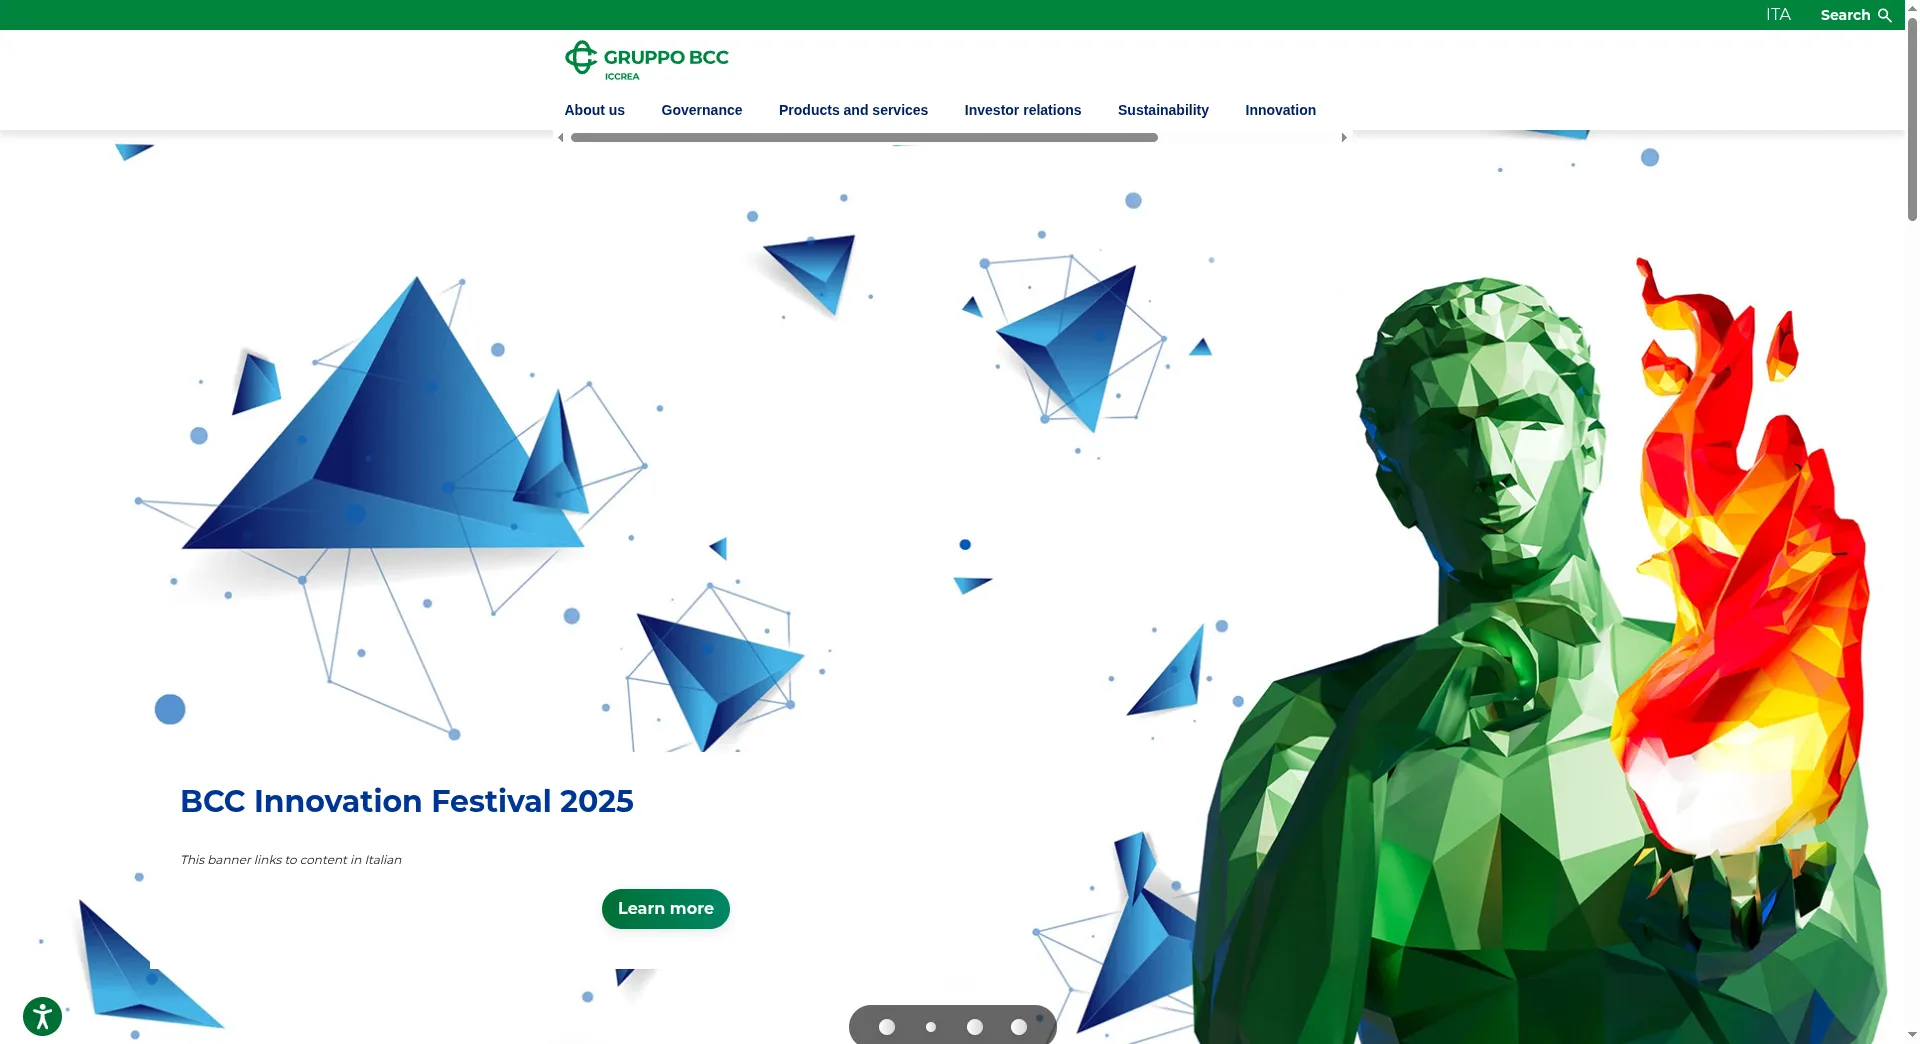
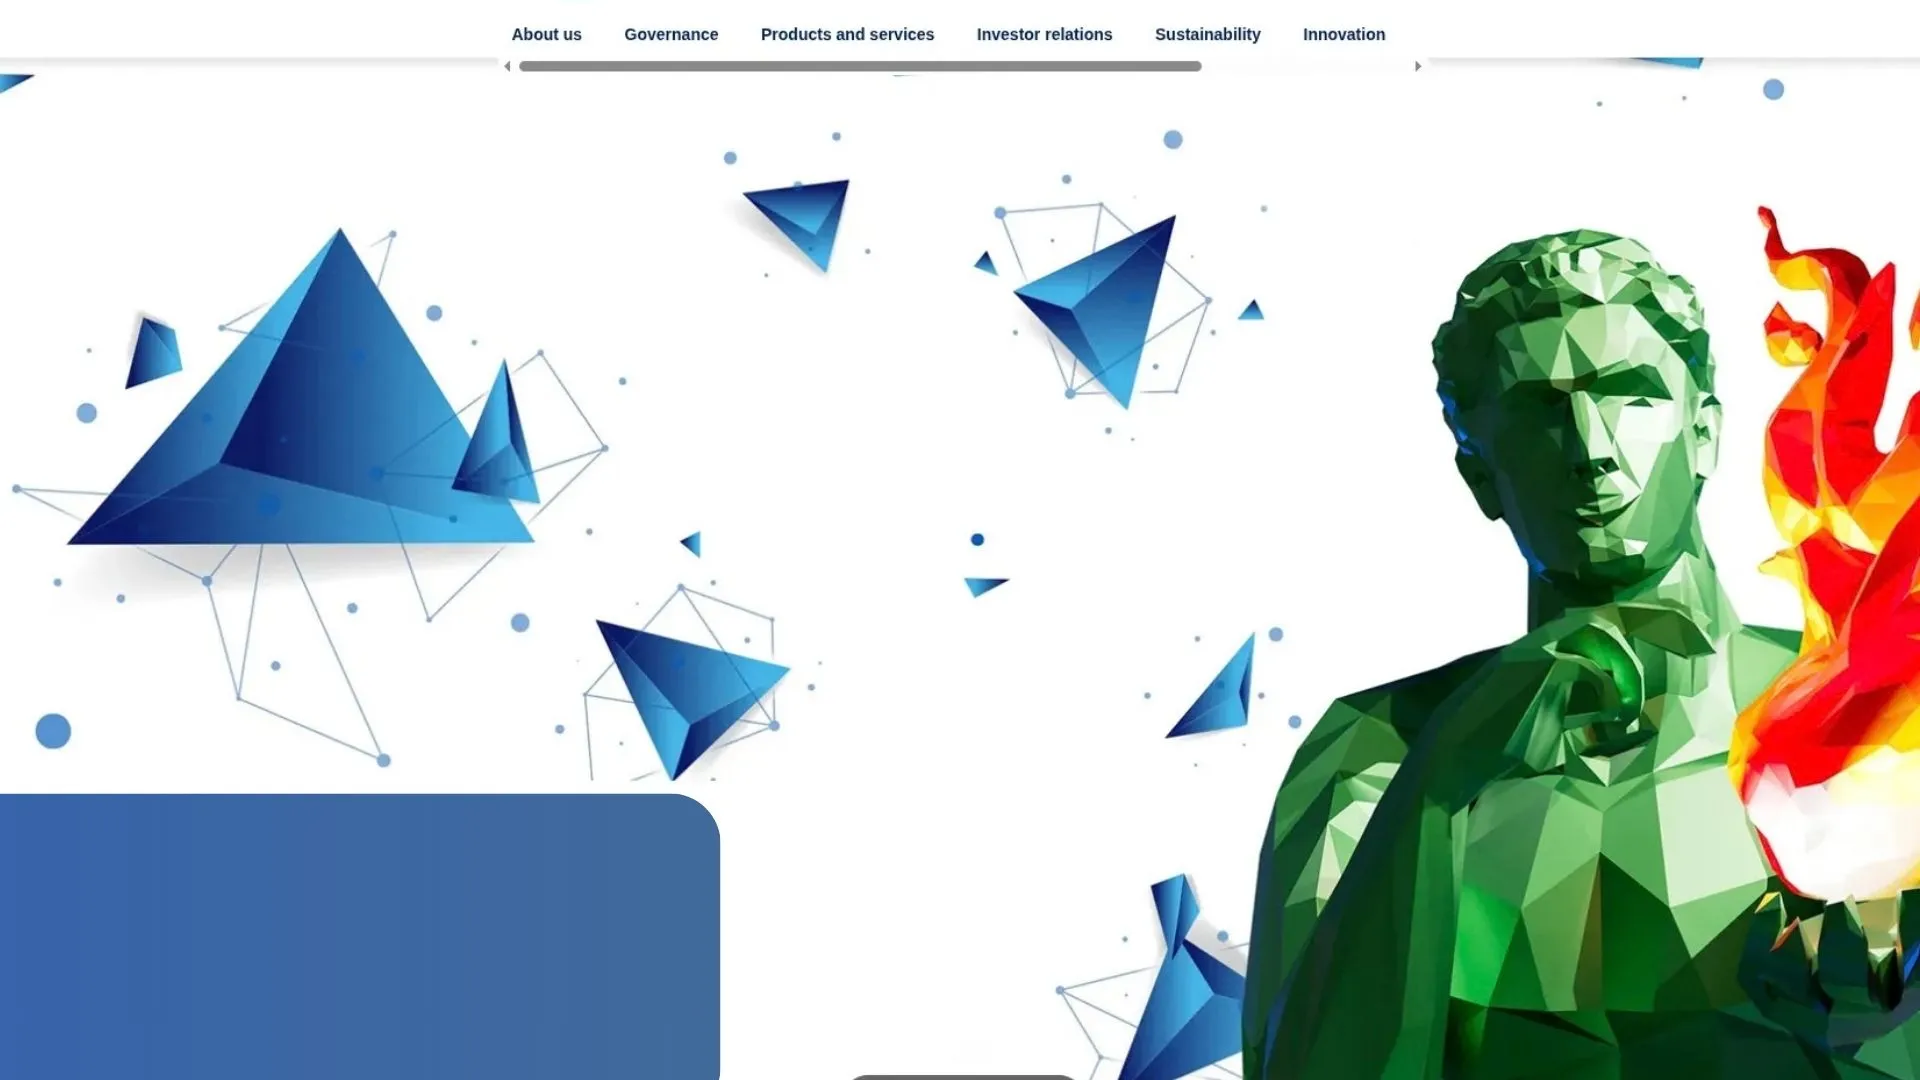
convertendo numero de telefone de italiano para portugues no formulario

diff --git a/components/LeadForm.tsx b/components/LeadForm.tsx
@@ -20,32 +20,32 @@ function getTracking() {
   };
 }
 
-/*
-|--------------------------------------------------------------------------
-| Máscara de telefone italiano
-|--------------------------------------------------------------------------
-*/
+/**
+ * --------------------------------------------------------------------------
+ * Máscara de telefone português
+ * --------------------------------------------------------------------------
+ */
 
-function formatItalianPhone(value: string) {
+function formatPortuguesePhone(value: string) {
   let numbers = value.replace(/\D/g, "");
 
-  // Remove o código 39 se o usuário colar +39
-  if (numbers.startsWith("39")) {
-    numbers = numbers.slice(2);
+  // Remove o código 351 se o utilizador colar +351
+  if (numbers.startsWith("351")) {
+    numbers = numbers.slice(3);
   }
 
-  // Máximo de 10 dígitos
-  numbers = numbers.slice(0, 10);
+  // Máximo de 9 dígitos
+  numbers = numbers.slice(0, 9);
 
-  // Celulares italianos começam com 3
-  if (numbers.length > 0 && numbers[0] !== "3") {
+  // Telemóveis portugueses começam com 9
+  if (numbers.length > 0 && numbers[0] !== "9") {
     return "";
   }
 
-  // +39 320 123 4567
+  // +351 912 345 678
   if (numbers.length > 6) {
     return (
-      "+39 " +
+      "+351 " +
       numbers.slice(0, 3) +
       " " +
       numbers.slice(3, 6) +
@@ -54,14 +54,14 @@ function formatItalianPhone(value: string) {
     );
   }
 
-  // +39 320 123
+  // +351 912 345
   if (numbers.length > 3) {
-    return "+39 " + numbers.slice(0, 3) + " " + numbers.slice(3);
+    return "+351 " + numbers.slice(0, 3) + " " + numbers.slice(3);
   }
 
-  // +39 320
+  // +351 912
   if (numbers.length > 0) {
-    return "+39 " + numbers;
+    return "+351 " + numbers;
   }
 
   return "";
@@ -115,8 +115,7 @@ export default function LeadForm() {
   */
 
   function handlePhoneChange(event: React.ChangeEvent<HTMLInputElement>) {
-    const formatted = formatItalianPhone(event.target.value);
-
+    const formatted = formatPortuguesePhone(event.target.value);
     setPhone(formatted);
   }
 
@@ -151,9 +150,8 @@ export default function LeadForm() {
 
     const normalizedPhone = normalizePhone(phone);
 
-    if (!/^393\d{9}$/.test(normalizedPhone)) {
-      setError("Insira um número de telemóvel italiano válido.");
-
+    if (!/^3519\d{8}$/.test(normalizedPhone)) {
+      setError("Insira um número de telemóvel português válido.");
       return;
     }
 
@@ -281,8 +279,8 @@ export default function LeadForm() {
           autoComplete="tel"
           value={phone}
           onChange={handlePhoneChange}
-          placeholder="+39 3XX XXX XXXX"
-          maxLength={17}
+          placeholder="+351 9XX XXX XXX"
+          maxLength={16}
           required
         />
       </label>

diff --git a/app/api/leads/route.ts b/app/api/leads/route.ts
@@ -10,7 +10,7 @@ import { z } from "zod";
 |--------------------------------------------------------------------------
 */
 
-const italianMobileRegex = /^\+39\s?3\d{2}\s?\d{3}\s?\d{4}$/;
+const portugueseMobileRegex = /^\+351\s?9\d{2}\s?\d{3}\s?\d{3}$/;
 
 const schema = z.object({
   name: z.string().trim().min(2).max(100),
@@ -19,8 +19,8 @@ const schema = z.object({
     .string()
     .trim()
     .regex(
-      italianMobileRegex,
-      "Insira um número de telemóvel italiano válido."
+      portugueseMobileRegex,
+      "Insira um número de telemóvel português válido."
     ),
 
   email: z.string().trim().email().max(150),
@@ -108,12 +108,11 @@ export async function POST(request: NextRequest) {
     |--------------------------------------------------------------------------
     */
 
-    if (!/^393\d{9}$/.test(normalizedPhone)) {
+    if (!/^3519\d{8}$/.test(normalizedPhone)) {
       return NextResponse.json(
         {
           ok: false,
-
-          error: "Insira um número de telemóvel italiano válido.",
+          error: "Insira um número de telemóvel português válido.",
         },
         {
           status: 400,
